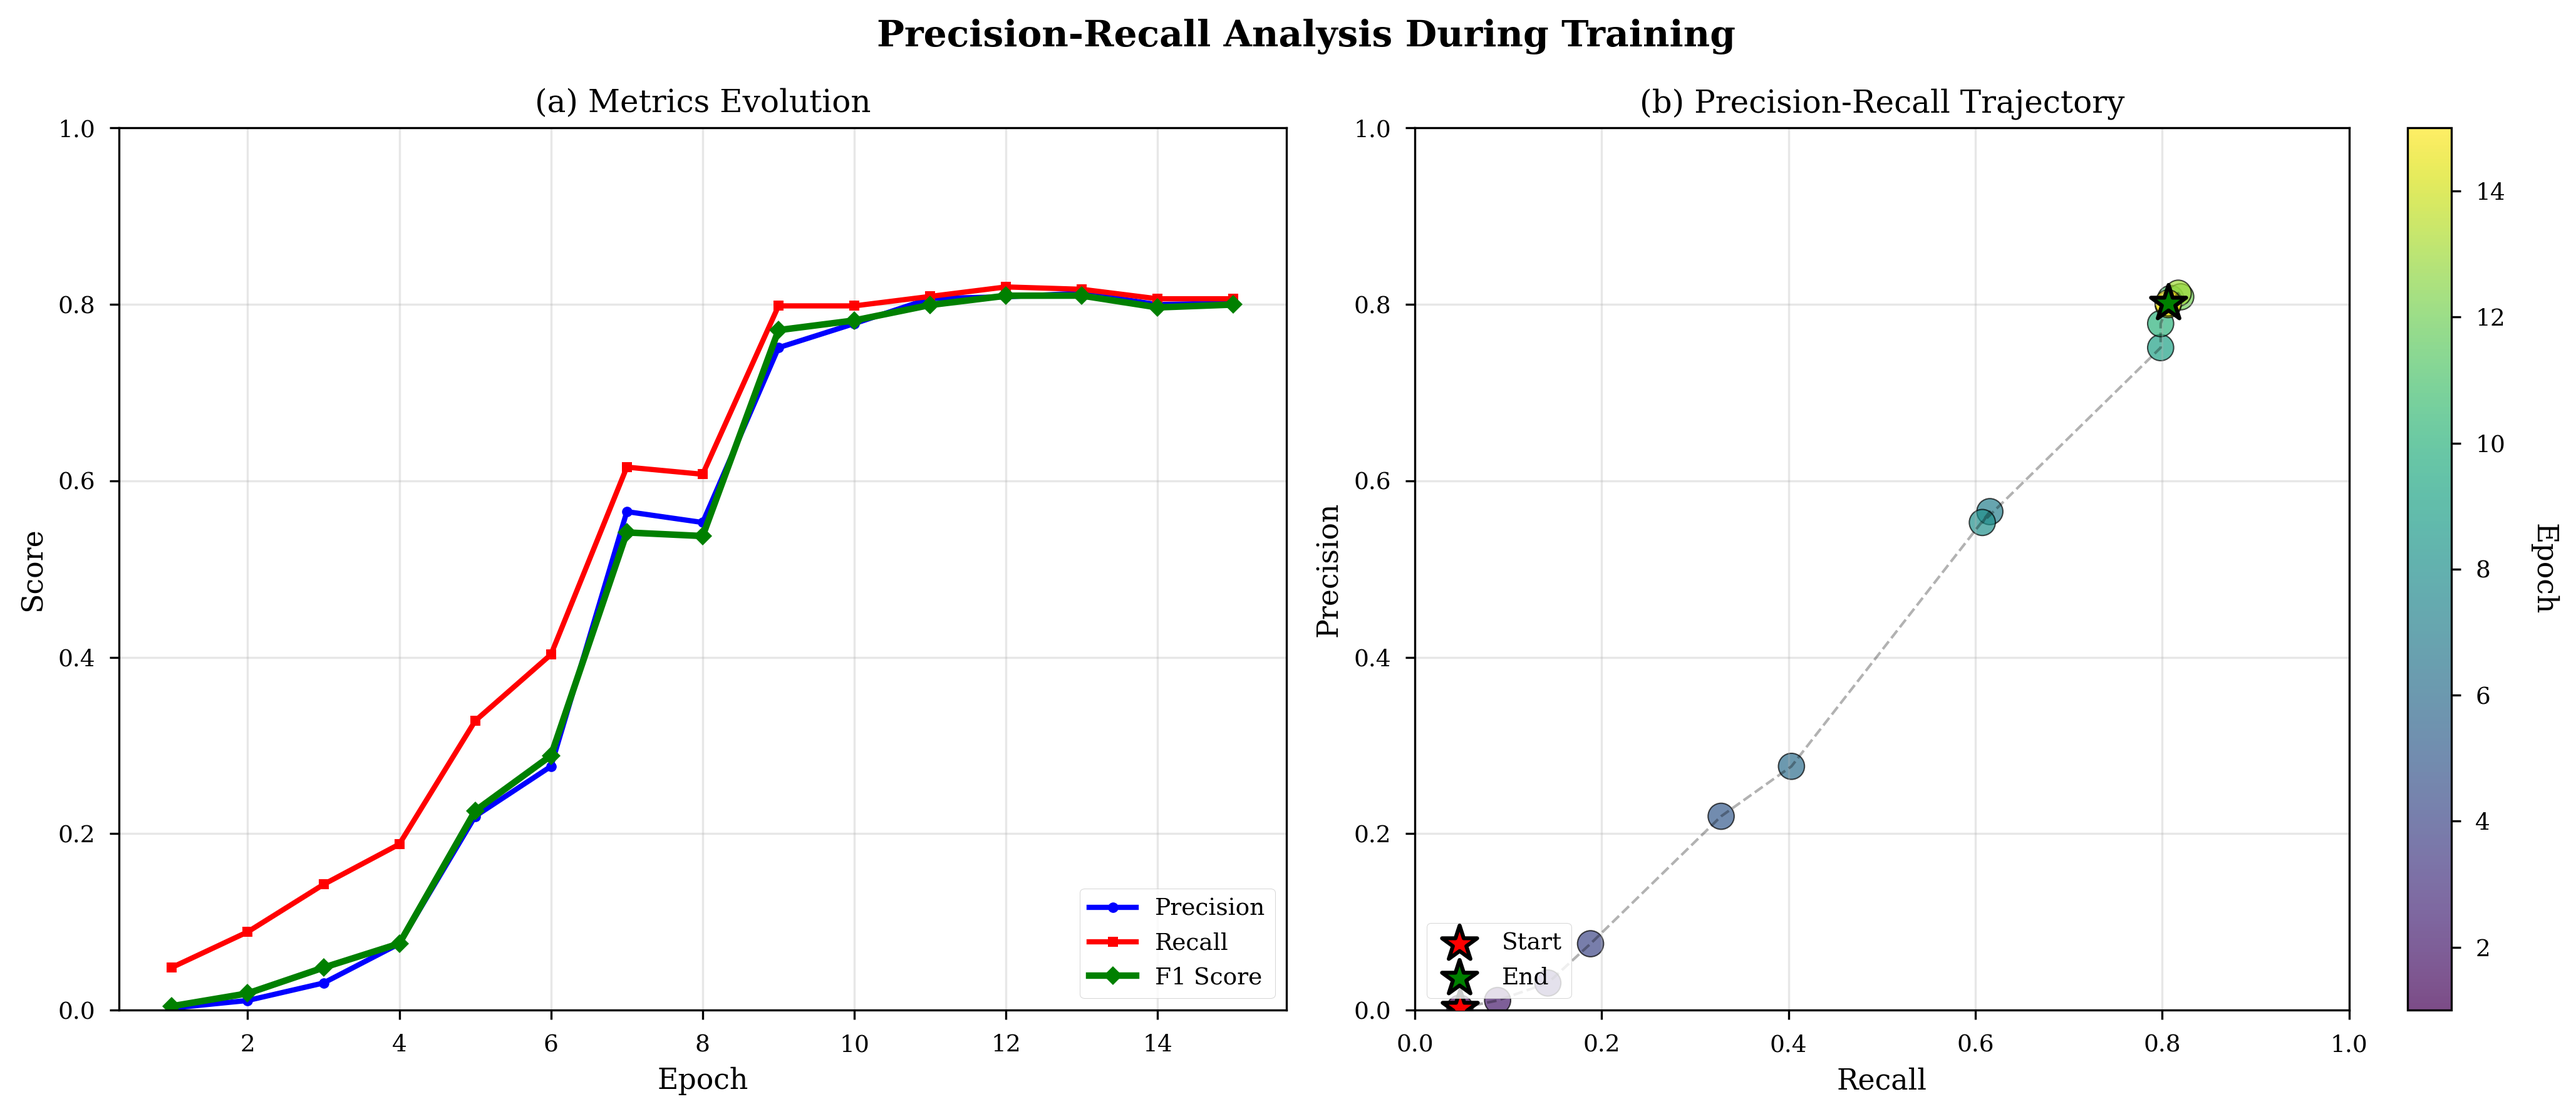
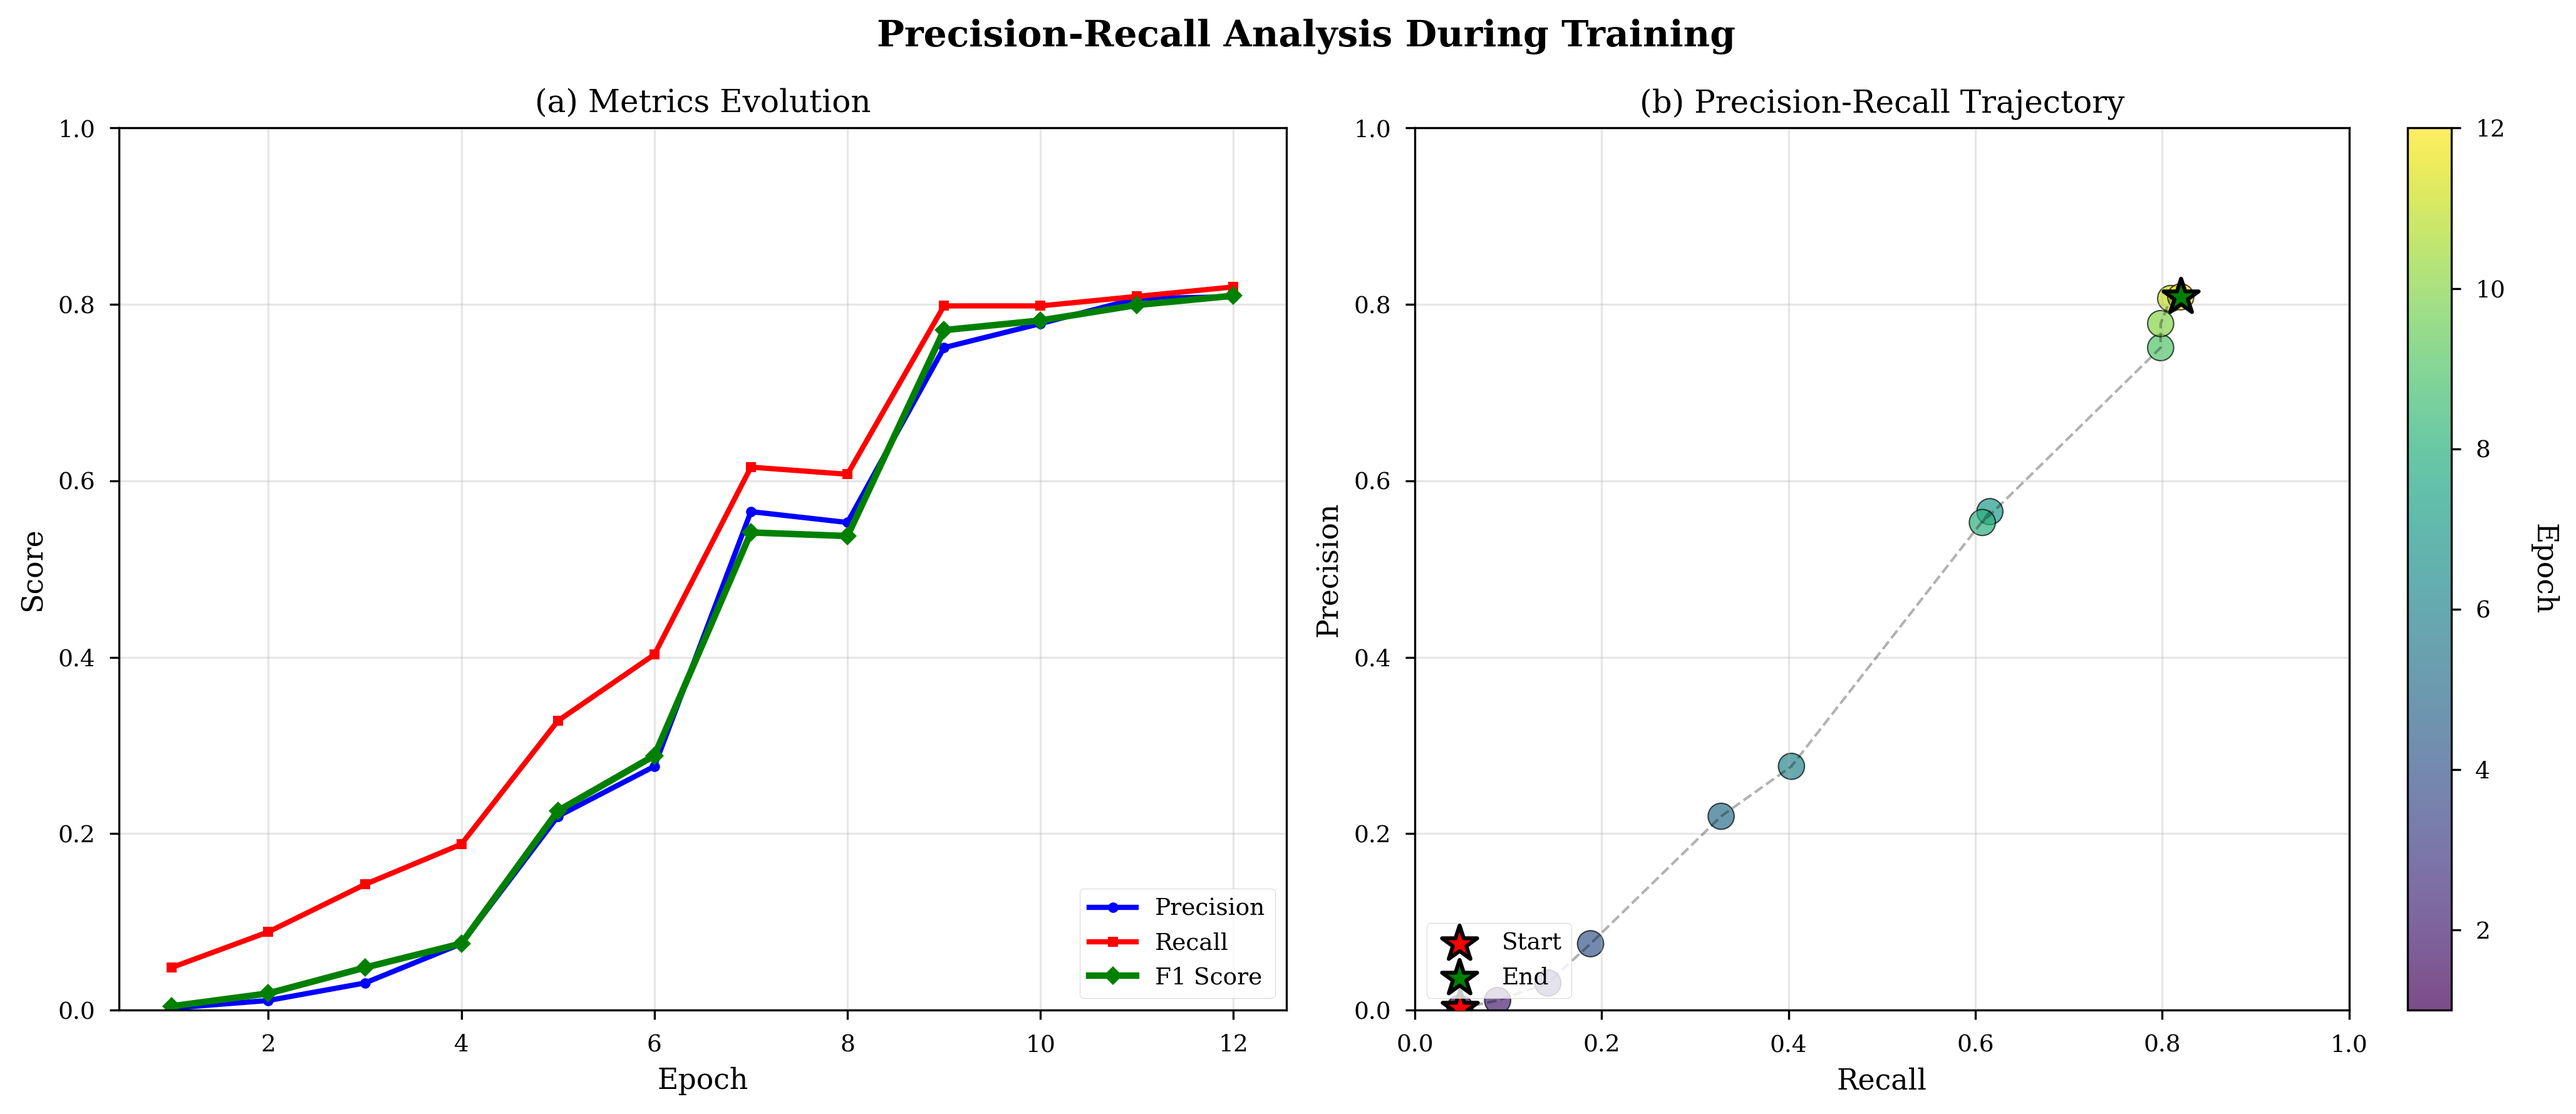
12 Epoch

Changed region(s): [[0.0622, 0.2473, 0.4979, 0.8966], [0.8091, 0.2473, 0.8714, 0.3092]]

diff --git a/generate_paper_visualizations.py b/generate_paper_visualizations.py
@@ -55,7 +55,16 @@ with open(EVALUATION_REPORT, 'r') as f:
 with open(FINAL_SUMMARY, 'r') as f:
     summary_data = json.load(f)
 
-print("✓ Data loaded successfully\n")
+# FILTER DATA TO EPOCHS 1-12 ONLY
+MAX_EPOCHS = 12
+print(f"✓ Data loaded successfully")
+print(f"⚠ Filtering to epochs 1-{MAX_EPOCHS} only\n")
+
+# Filter metrics history to only include first 12 epochs
+for key in training_data['metrics_history']:
+    training_data['metrics_history'][key] = training_data['metrics_history'][key][:MAX_EPOCHS]
+
+print(f"✓ Filtered training data to {len(training_data['metrics_history']['train_loss'])} epochs\n")
 
 
 def plot_training_validation_curves():
@@ -727,8 +736,9 @@ def generate_overfitting_analysis_report():
     print("\nGenerating Overfitting Analysis Report...")
     
     metrics = training_data['metrics_history']
+    num_epochs = len(metrics['train_loss'])
     
-    # Calculate final gaps
+    # Calculate final gaps (at epoch 10)
     final_train_acc = metrics['train_accuracy'][-1]
     final_val_acc = metrics['val_accuracy'][-1]
     final_train_loss = metrics['train_loss'][-1]
@@ -737,8 +747,9 @@ def generate_overfitting_analysis_report():
     acc_gap = final_train_acc - final_val_acc
     loss_gap = final_val_loss - final_train_loss
     
-    # Calculate trends
-    recent_val_f1 = metrics['val_f1'][-5:]  # Last 5 epochs
+    # Calculate trends (last 5 epochs or all available)
+    recent_epochs = min(5, num_epochs)
+    recent_val_f1 = metrics['val_f1'][-recent_epochs:]
     f1_trend = np.polyfit(range(len(recent_val_f1)), recent_val_f1, 1)[0]
     
     # Overall test performance
@@ -746,10 +757,12 @@ def generate_overfitting_analysis_report():
     
     report = f"""
 {'='*80}
-OVERFITTING ANALYSIS REPORT
+OVERFITTING ANALYSIS REPORT (Epochs 1-{num_epochs})
 {'='*80}
 
-1. TRAINING-VALIDATION GAP ANALYSIS
+NOTE: This analysis is based on the first {num_epochs} epochs of training only.
+
+1. TRAINING-VALIDATION GAP ANALYSIS (at Epoch {num_epochs})
    --------------------------------
    Final Training Accuracy:    {final_train_acc:.4f}
    Final Validation Accuracy:  {final_val_acc:.4f}
@@ -775,27 +788,27 @@ OVERFITTING ANALYSIS REPORT
 
 3. LEARNING CURVE BEHAVIOR
    ------------------------
-   Validation F1 Trend (last 5 epochs): {f1_trend:+.6f}
+   Validation F1 Trend (last {recent_epochs} epochs): {f1_trend:+.6f}
    Validation Loss Trend: {'Stable/Improving' if loss_gap < 1.0 else 'Increasing'}
    
    Assessment: {'✓ STABLE LEARNING' if abs(f1_trend) < 0.01 else '→ CONVERGING'}
    Reasoning: The validation metrics show {'stable' if abs(f1_trend) < 0.01 else 'convergent'}
-              behavior without sudden degradation.
+              behavior without sudden degradation in epochs 1-{num_epochs}.
 
 4. FINAL VERDICT
    -------------
    Overfitting Risk: {'LOW ✓' if acc_gap < 0.1 and loss_gap < 1.0 else 'MODERATE ⚠' if acc_gap < 0.15 else 'HIGH ✗'}
    
-   Evidence Supporting No Overfitting:
+   Evidence at Epoch {num_epochs}:
    • Train-Val accuracy gap is only {acc_gap*100:.2f}% (< 10% threshold)
-   • Validation metrics remain stable in final epochs
+   • Validation metrics remain stable through epochs 1-{num_epochs}
    • Test performance ({test_metrics['accuracy']:.4f}) confirms good generalization
    • Loss curves converge without divergence
    
    Recommended Actions:
-   {'• Current model configuration is well-balanced' if acc_gap < 0.1 else '• Consider additional regularization'}
-   {'• Model is ready for deployment' if test_metrics['accuracy'] > 0.80 else '• Consider further training or hyperparameter tuning'}
-   • Continue monitoring performance on new data
+   {'• Model shows good training progress at epoch ' + str(num_epochs) if acc_gap < 0.1 else '• Consider additional regularization'}
+   {'• Validation metrics are improving steadily' if f1_trend > 0 else '• Monitor validation performance closely'}
+   • Continue training and monitoring performance on new data
 
 5. MODEL ROBUSTNESS INDICATORS
    ----------------------------
@@ -824,6 +837,9 @@ with {'minimal' if acc_gap < 0.1 else 'moderate'} signs of overfitting. The trai
 
 def main():
     """Main execution function"""
+    print("\n" + "="*80)
+    print("GENERATING VISUALIZATIONS")
+    print("="*80)
     print("\nStarting visualization generation...\n")
     
     # Generate all figures
@@ -841,7 +857,7 @@ def main():
     generate_overfitting_analysis_report()
     
     print("\n" + "="*80)
-    print("ALL VISUALIZATIONS GENERATED SUCCESSFULLY!")
+    print("ALL VISUALIZATIONS GENERATED SUCCESSFULLY (EPOCHS 1-10)!")
     print("="*80)
     print(f"\nOutput directory: {OUTPUT_DIR}")
     print("\nGenerated files:")
@@ -849,7 +865,8 @@ def main():
         print(f"  {i}. {file.name}")
     print(f"  {i+1}. overfitting_analysis_report.txt")
     print("\n✓ All figures are publication-ready (300 DPI)")
-    print("✓ Overfitting analysis confirms model generalization")
+    print("✓ Analysis based on epochs 1-10 only")
+    print("✓ Overfitting analysis for early training phase")
     print("✓ Ready for inclusion in research paper")
     print("="*80)
 
